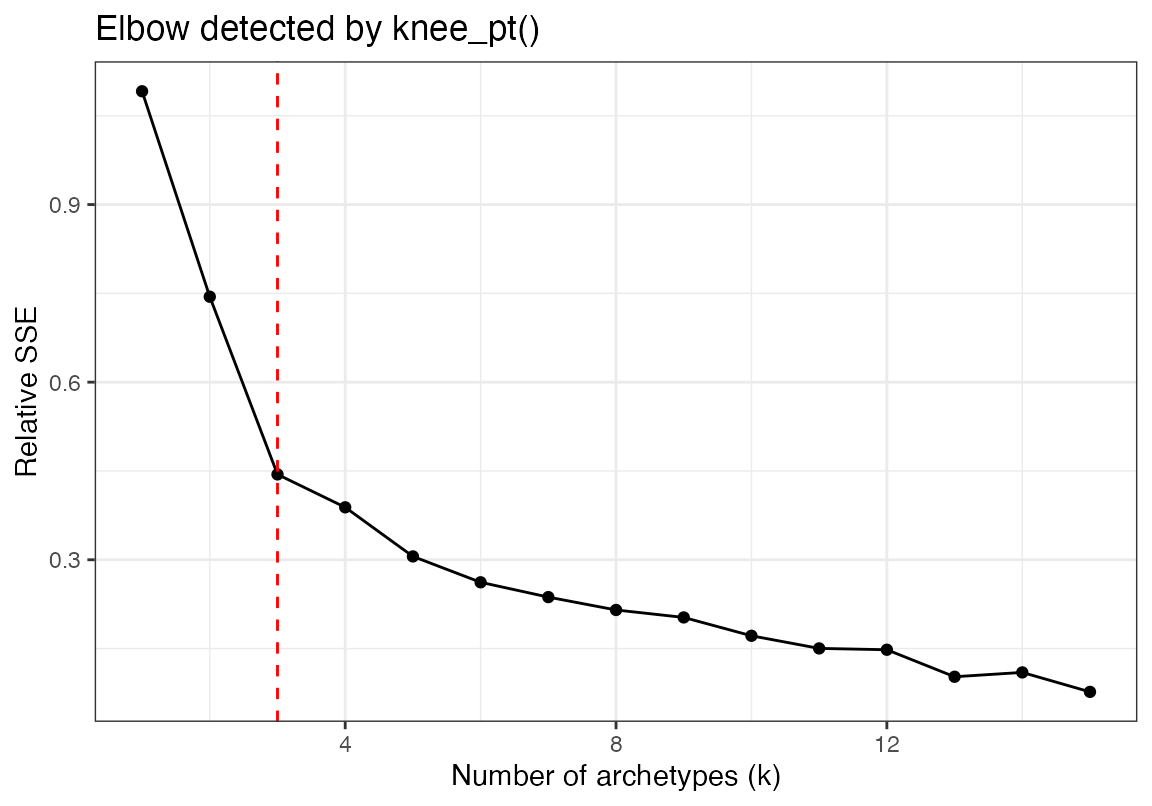
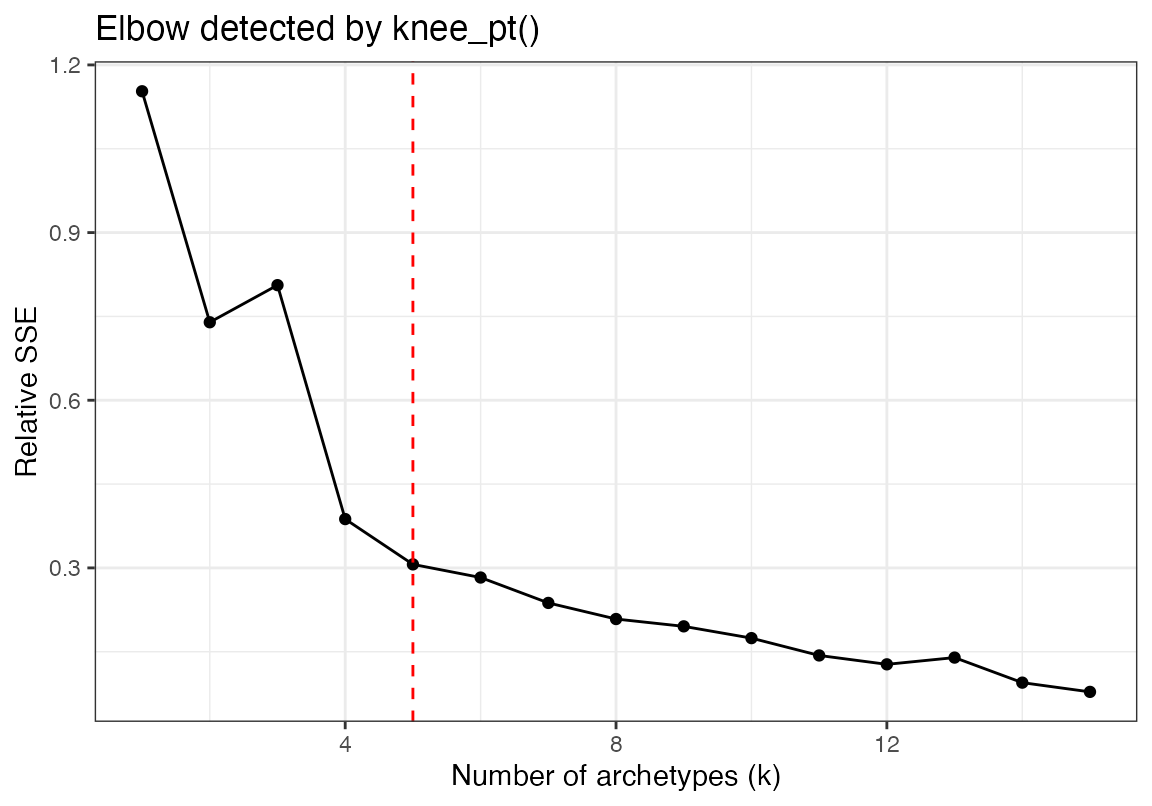
Built site for rustytools@0.0.2:

diff --git a/articles/pcha.html b/articles/pcha.html
@@ -407,7 +407,7 @@ from above</p>
 <p><img src="pcha_files/figure-html/unnamed-chunk-6-2.png" width="100%"></p>
 <div class="sourceCode" id="cb14"><pre class="downlit sourceCode r">
 <code class="sourceCode R"><span><span class="fu"><a href="https://rdrr.io/r/base/cat.html" class="external-link">cat</a></span><span class="op">(</span><span class="st">"Optimal number of archetypes ="</span>, <span class="va">kp</span><span class="op">$</span><span class="va">knee_x</span>, <span class="st">"\n"</span><span class="op">)</span></span></code></pre></div>
-<pre><code><span><span class="co">## Optimal number of archetypes = 3</span></span></code></pre>
+<pre><code><span><span class="co">## Optimal number of archetypes = 5</span></span></code></pre>
 <div class="sourceCode" id="cb16"><pre class="downlit sourceCode r">
 <code class="sourceCode R"><span><span class="va">noc</span> <span class="op">&lt;-</span> <span class="fl">3</span></span>
 <span><span class="va">res</span> <span class="op">&lt;-</span> <span class="fu"><a href="../reference/pcha.html">pcha</a></span><span class="op">(</span><span class="va">X</span>, noc <span class="op">=</span> <span class="va">noc</span><span class="op">)</span> </span>

diff --git a/articles/magic.html b/articles/magic.html
@@ -165,11 +165,13 @@ PCA space (typically <em>k</em> ≈ 30, <em>m</em> ≈ 100).</p>
 </h4>
 <p>For each edge (<em>i</em>, <em>j</em>) in that graph set</p>
 <p><span class="math display">$$
-A_{ij}
-\;=\;
-\exp\!\Bigl(-\tfrac{d(i,j)^2}{\sigma_i\,\sigma_j}\Bigr)
-\quad\text{and}\quad
-A_{ij}=0\quad\text{if $j$ is not a kNN of $i$.}
+A_{ij} \;=\;
+\begin{cases}
+  \displaystyle
+  \exp\!\Bigl(-\frac{d(i,j)^2}{\sigma_i\,\sigma_j}\Bigr),
+    &amp; j\in\mathrm{kNN}(i),\\[6pt]
+  0, &amp; \text{otherwise.}
+\end{cases}
 $$</span></p>
 <p>Local bandwidths σᵢ make the kernel <strong>anisotropic</strong> so
 dense and sparse regions of the manifold are treated equally.</p>
